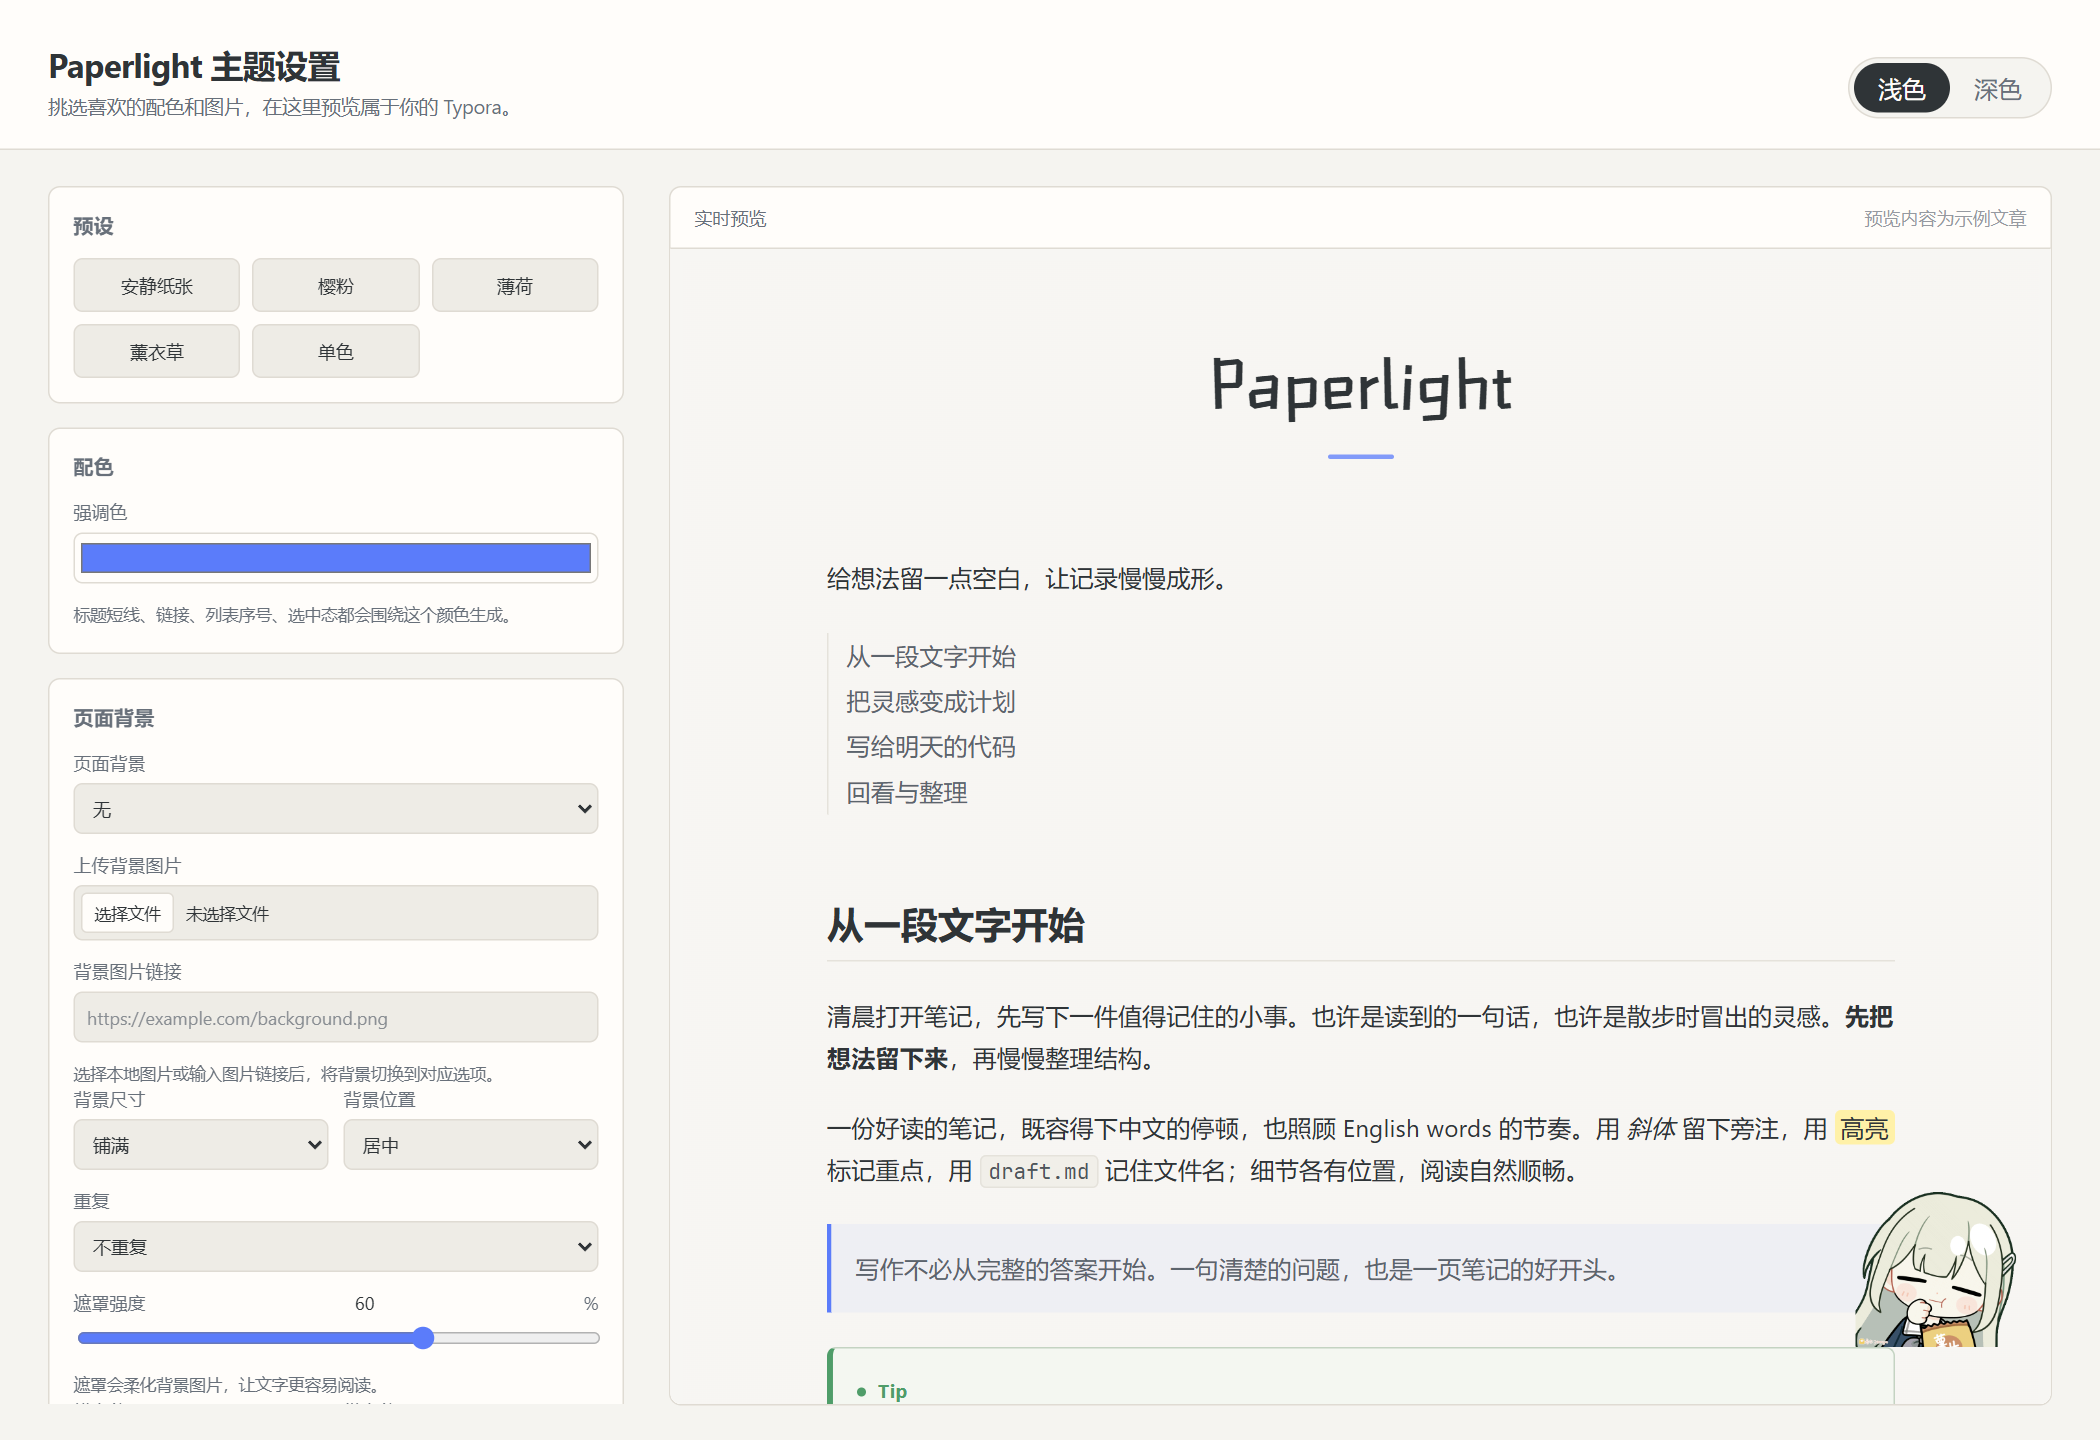
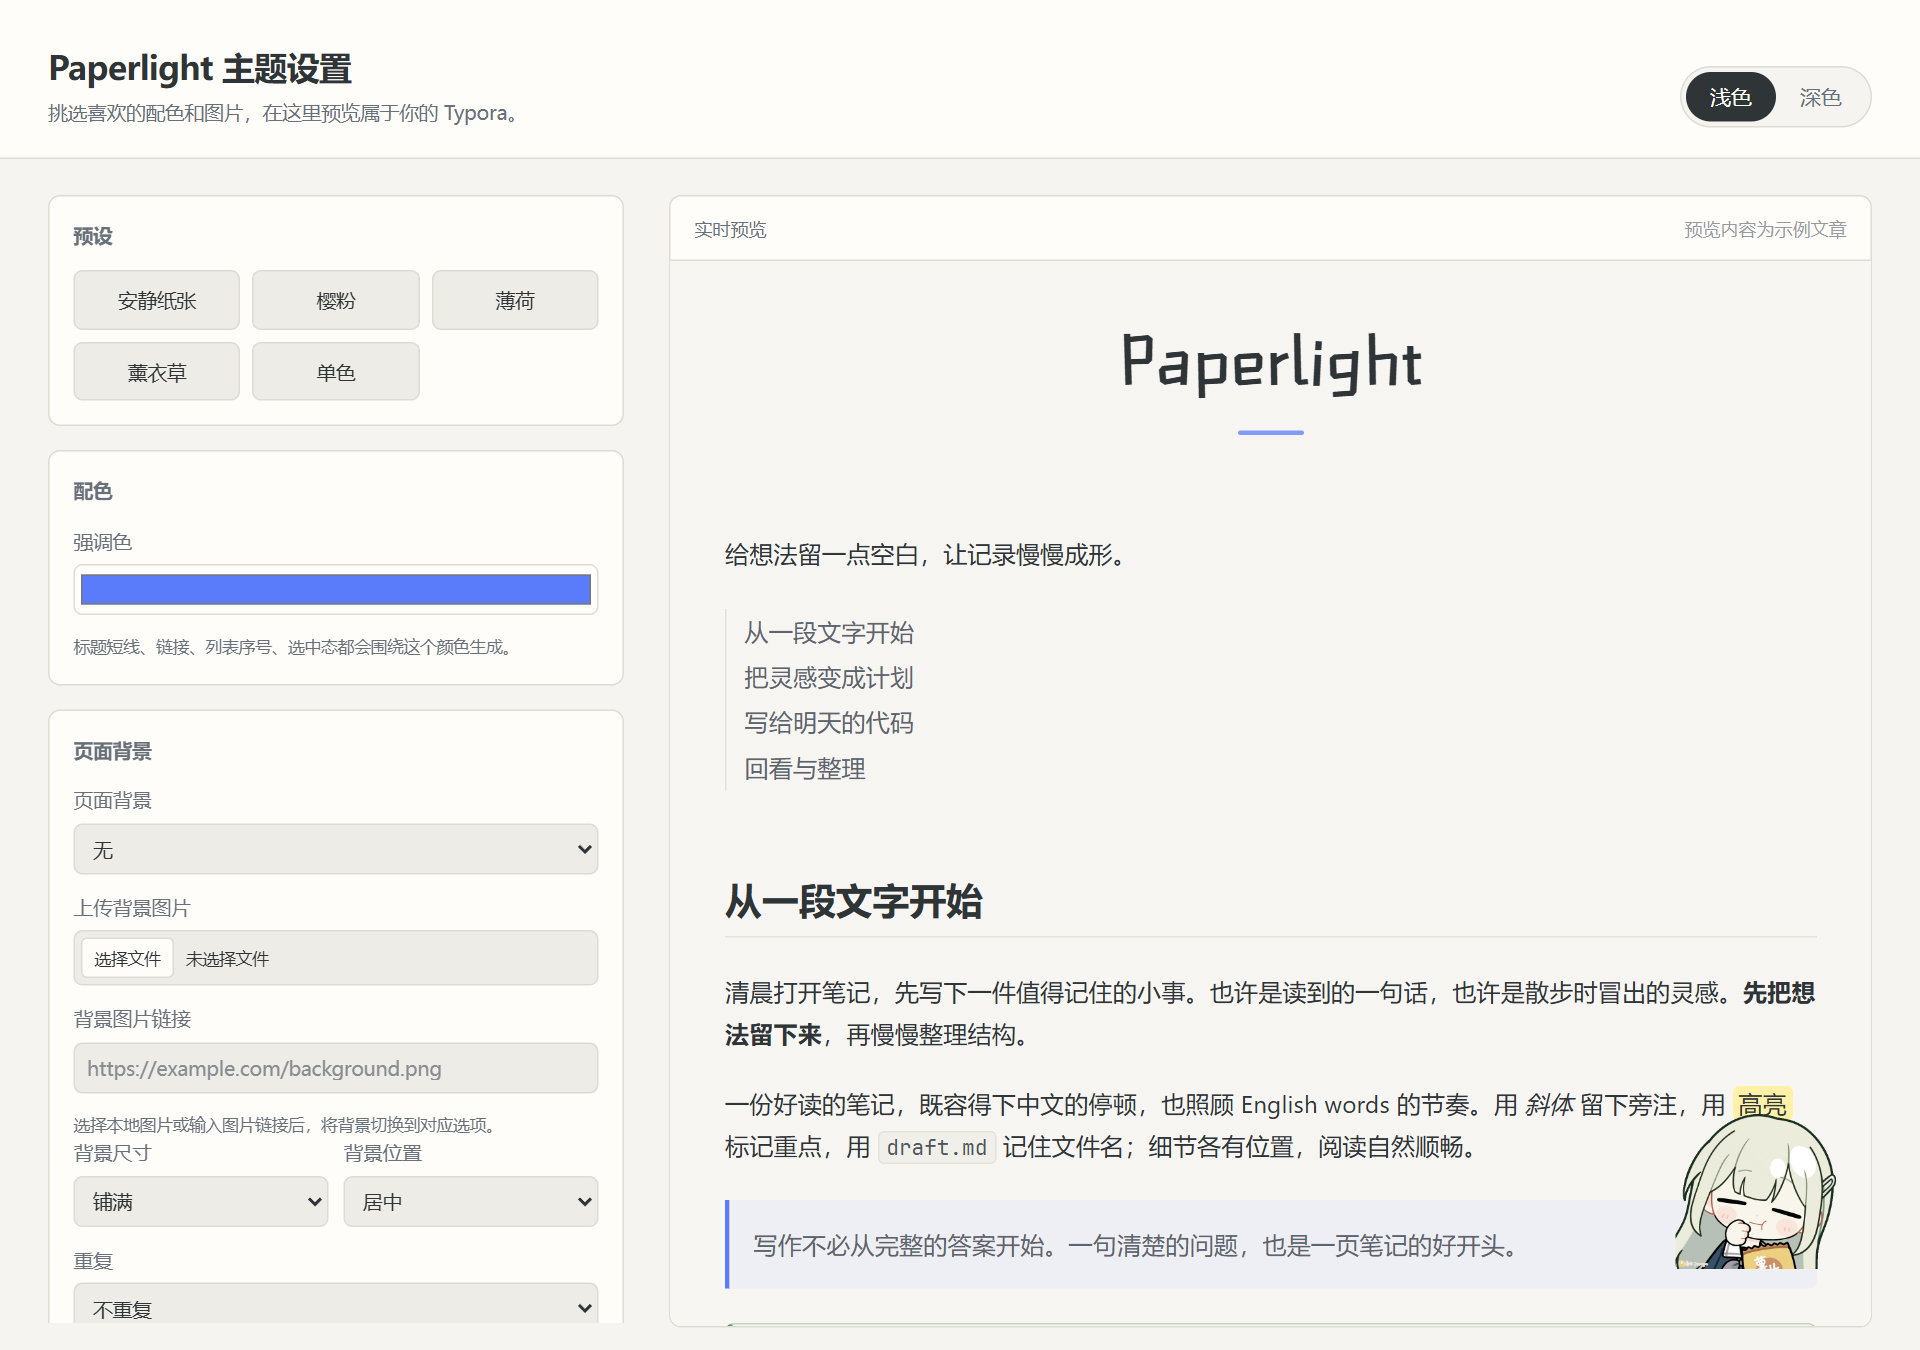
fix: simplify configurator controls and typography

diff --git a/tools/theme-configurator/index.html b/tools/theme-configurator/index.html
@@ -85,13 +85,13 @@
         </label>
 
         <label class="row range-row">
-          <span>遮罩强度 <output id="pageBgOverlayValue">60</output>%</span>
+          <span class="range-label"><span>遮罩强度</span><span class="range-value"><output id="pageBgOverlayValue">60</output><span class="range-unit">%</span></span></span>
           <input id="pageBgOverlay" type="range" min="0" max="90" step="5" value="60">
         </label>
         <p class="hint">遮罩会柔化背景图片，让文字更容易阅读。</p>
         <div class="grid-2">
-          <label class="row range-row"><span>横向位置 <output id="pageBgXValue">50</output>%</span><input id="pageBgX" type="range" min="0" max="100" value="50"></label>
-          <label class="row range-row"><span>纵向位置 <output id="pageBgYValue">50</output>%</span><input id="pageBgY" type="range" min="0" max="100" value="50"></label>
+          <label class="row range-row"><span class="range-label"><span>横向位置</span><span class="range-value"><output id="pageBgXValue">50</output><span class="range-unit">%</span></span></span><input id="pageBgX" type="range" min="0" max="100" value="50"></label>
+          <label class="row range-row"><span class="range-label"><span>纵向位置</span><span class="range-value"><output id="pageBgYValue">50</output><span class="range-unit">%</span></span></span><input id="pageBgY" type="range" min="0" max="100" value="50"></label>
         </div>
         <p class="hint">选择「自定义」位置后，拖动滑块精细调整。</p>
       </section>
@@ -115,20 +115,20 @@
         <label class="row"><span>表情包图片链接</span><input id="watermarkUrl" type="url" placeholder="https://example.com/sticker.gif"></label>
         <label class="row"><span>停靠位置</span><select id="watermarkAnchor"><option value="bottom-right">右下</option><option value="bottom-left">左下</option><option value="top-right">右上</option><option value="top-left">左上</option></select></label>
         <label class="row range-row">
-          <span>尺寸 <output id="watermarkSizeValue">108</output>px</span>
+          <span class="range-label"><span>尺寸</span><span class="range-value"><output id="watermarkSizeValue">108</output><span class="range-unit">px</span></span></span>
           <input id="watermarkSize" type="range" min="72" max="180" step="2" value="108">
         </label>
         <label class="row range-row">
-          <span>不透明度 <output id="watermarkOpacityValue">100</output>%</span>
+          <span class="range-label"><span>不透明度</span><span class="range-value"><output id="watermarkOpacityValue">100</output><span class="range-unit">%</span></span></span>
           <input id="watermarkOpacity" type="range" min="20" max="100" step="5" value="100">
         </label>
         <div class="grid-2">
           <label class="row range-row">
-            <span>横向边距 <output id="watermarkRightValue">22</output>px</span>
+            <span class="range-label"><span>横向边距</span><span class="range-value"><output id="watermarkRightValue">22</output><span class="range-unit">px</span></span></span>
             <input id="watermarkRight" type="range" min="0" max="100" step="2" value="22">
           </label>
           <label class="row range-row">
-            <span>纵向边距 <output id="watermarkBottomValue">38</output>px</span>
+            <span class="range-label"><span>纵向边距</span><span class="range-value"><output id="watermarkBottomValue">38</output><span class="range-unit">px</span></span></span>
             <input id="watermarkBottom" type="range" min="0" max="120" step="2" value="38">
           </label>
         </div>
@@ -148,15 +148,15 @@
           <span>标题使用手写体（MiaoZi）</span>
         </label>
         <label class="row range-row">
-          <span>字号 <output id="fontSizeValue">16</output>px</span>
+          <span class="range-label"><span>字号</span><span class="range-value"><output id="fontSizeValue">16</output><span class="range-unit">px</span></span></span>
           <input id="fontSize" type="range" min="14" max="19" step="0.5" value="16">
         </label>
         <label class="row range-row">
-          <span>行高 <output id="lineHeightValue">1.75</output></span>
+          <span class="range-label"><span>行高</span><span class="range-value"><output id="lineHeightValue">1.75</output></span></span>
           <input id="lineHeight" type="range" min="1.5" max="2.1" step="0.05" value="1.75">
         </label>
         <label class="row range-row">
-          <span>内容宽度 <output id="contentWidthValue">840</output>px</span>
+          <span class="range-label"><span>内容宽度</span><span class="range-value"><output id="contentWidthValue">840</output><span class="range-unit">px</span></span></span>
           <input id="contentWidth" type="range" min="680" max="1120" step="10" value="840">
         </label>
       </section>
@@ -164,7 +164,7 @@
       <section class="control-section">
         <h2>细节</h2>
         <label class="row range-row">
-          <span>圆角 <output id="radiusValue">6</output>px</span>
+          <span class="range-label"><span>圆角</span><span class="range-value"><output id="radiusValue">6</output><span class="range-unit">px</span></span></span>
           <input id="radius" type="range" min="0" max="18" step="1" value="6">
         </label>
         <label class="row">
@@ -183,7 +183,7 @@
           <span>h2 下方细线</span>
         </label>
         <label class="row range-row">
-          <span>Focus 淡化 <output id="focusDimValue">65</output>%</span>
+          <span class="range-label"><span>Focus 淡化</span><span class="range-value"><output id="focusDimValue">65</output><span class="range-unit">%</span></span></span>
           <input id="focusDim" type="range" min="20" max="90" step="5" value="65">
         </label>
       </section>

diff --git a/tools/theme-configurator/configurator.css b/tools/theme-configurator/configurator.css
@@ -5,7 +5,7 @@
   --ui-text: #2f3437;
   --ui-text-2: #68707a;
   --ui-border: #dfdbd3;
-  --ui-accent: #5b7cfa;
+  --ui-accent: #202124;
   --ui-radius: 8px;
   color-scheme: light;
   scrollbar-color: #c5c1b8 var(--ui-bg);
@@ -22,7 +22,9 @@ body {
   min-height: 100%;
   background: var(--ui-bg);
   color: var(--ui-text);
-  font-family: "Segoe UI", "PingFang SC", "Microsoft YaHei", "Noto Sans SC", sans-serif;
+  font-family: "Microsoft YaHei", "PingFang SC", "Noto Sans SC", "Segoe UI", sans-serif;
+  font-size: 14px;
+  line-height: 1.5;
 }
 
 button,
@@ -104,8 +106,7 @@ select {
   margin: 0 0 14px;
   font-size: 13px;
   font-weight: 700;
-  letter-spacing: 0.04em;
-  text-transform: uppercase;
+  letter-spacing: 0;
   color: var(--ui-text-2);
 }
 
@@ -113,7 +114,7 @@ select {
   margin: 0;
   color: var(--ui-text-2);
   font-size: 13px;
-  letter-spacing: 0.04em;
+  letter-spacing: 0;
 }
 
 .actions > .hint { margin: 0; }
@@ -136,7 +137,7 @@ select {
 
 .preset {
   padding: 9px 6px;
-  font-size: 12px;
+  font-size: 13px;
 }
 
 .preset:hover,
@@ -152,16 +153,37 @@ select {
   gap: 6px;
   margin: 0 0 12px;
   color: var(--ui-text-2);
-  font-size: 12px;
+  font-size: 13px;
 }
 
 .row:last-child {
   margin-bottom: 0;
 }
 
-.row span {
+.row > span {
+  display: block;
+}
+
+.range-row > .range-label {
   display: flex;
+  align-items: baseline;
   justify-content: space-between;
+  gap: 12px;
+}
+
+.range-value {
+  display: inline-flex;
+  align-items: baseline;
+  gap: 4px;
+  flex-shrink: 0;
+  color: var(--ui-text);
+  font-variant-numeric: tabular-nums;
+  white-space: nowrap;
+}
+
+.range-unit {
+  color: var(--ui-text-2);
+  font-size: 12px;
 }
 
 .row input[type="color"] {

diff --git a/DESIGN.md b/DESIGN.md
@@ -4,6 +4,7 @@ name: Paperlight
 description: A quiet stationery-inspired Typora theme and its practical customization workspace.
 colors:
   primary: "#5b7cfa"
+  configuratorAccent: "#202124"
   background: "#f7f6f3"
   surface: "#fffdfa"
   surfaceSecondary: "#f1efe9"
@@ -38,6 +39,8 @@ The editor theme remains the visual authority. `paperlight/style/theme.css` owns
 ## Colors
 
 Warm paper and restrained borders organize the light theme; dark mode uses charcoal surfaces with the same hierarchy. Blue is the default adjustable accent, used for focus, selection, and small emphasis. Text and control states must remain legible when the accent or the document background changes.
+
+The configurator shell uses charcoal (`--ui-accent: #202124`) for its controls, primary action, and focus indicators. Its interface color stays independent of the document's adjustable accent. Range controls place the setting name on the left and the value with its unit together on the right.
 
 ## Typography
 
